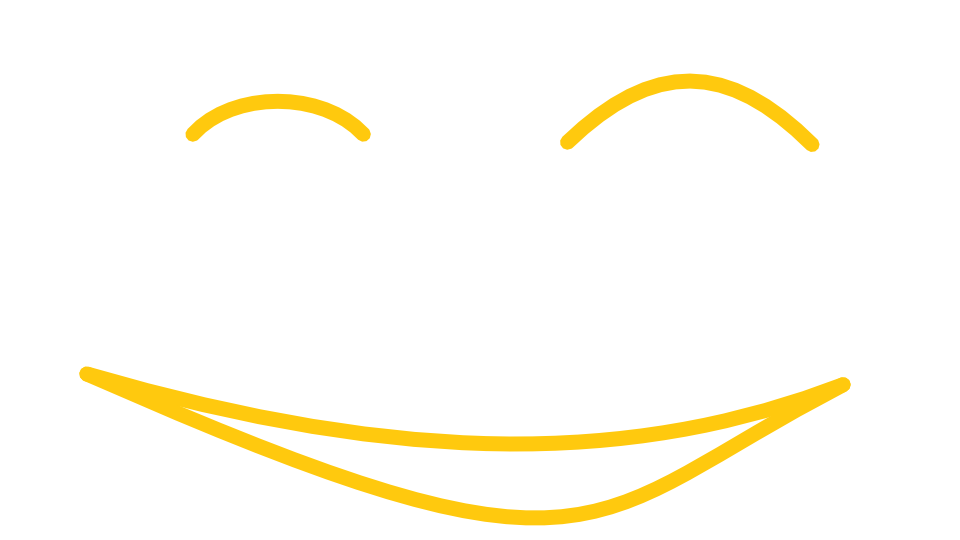
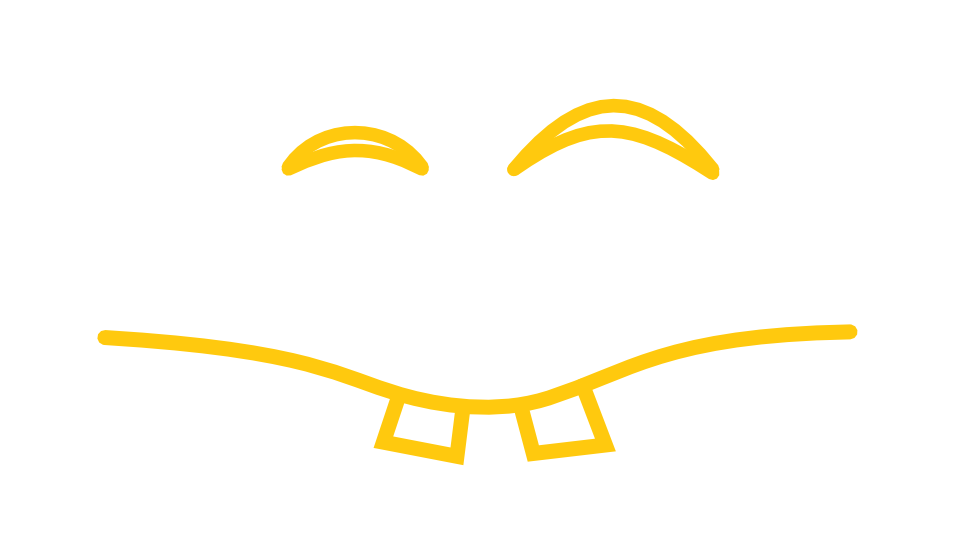
Поменялать счастливая мордочка и анимация к ней.

Changed region(s): [[0.0625, 0.5926, 0.9062, 0.9778], [0.5312, 0.1185, 0.875, 0.3259], [0.1875, 0.1481, 0.4688, 0.3259]]

diff --git a/Android/RoboHead/src/ru/dzakhov/FaceHelper.java b/Android/RoboHead/src/ru/dzakhov/FaceHelper.java
@@ -241,8 +241,9 @@ public final class FaceHelper {
 		if (mAnimation != null) {
 			mAnimation.stop();
 			mAnimation = null;
+			System.gc();
 		}
-
+		
 		mImageView.setBackgroundResource(resource);
 		mAnimation = (AnimationDrawable) mImageView.getBackground();
 		mAnimation.start();
